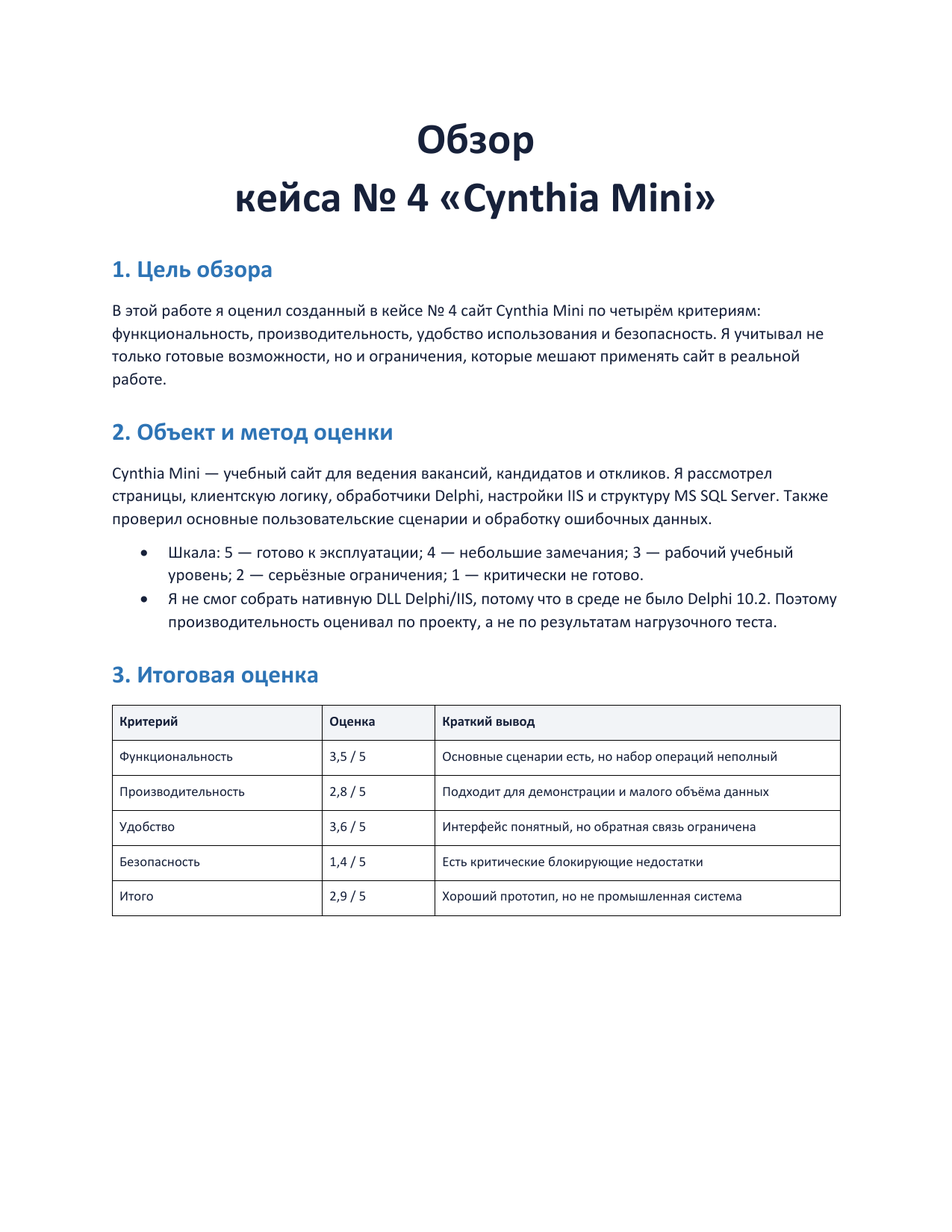
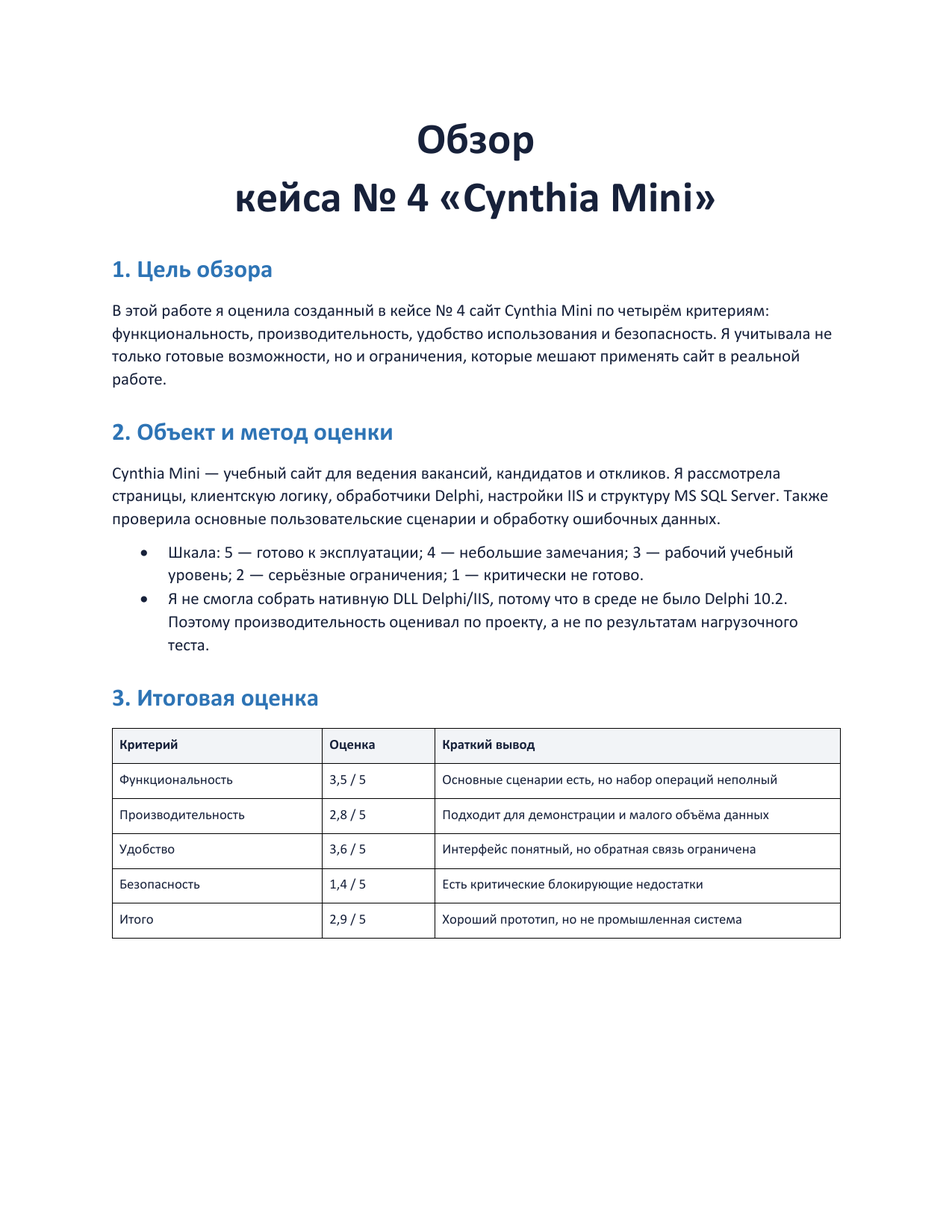
Исправить отчёты на женский род

diff --git a/case-4-cynthia-mini/README.md b/case-4-cynthia-mini/README.md
@@ -1,8 +1,8 @@
 # Cynthia Mini
 
-В этой работе я сделал небольшую учебную версию ATS-системы Cynthia. Интерфейс открывается в браузере, серверная часть работает на Delphi 10.2 WebBroker через IIS, а данные хранятся в Microsoft SQL Server.
+В этой работе я сделала небольшую учебную версию ATS-системы Cynthia. Интерфейс открывается в браузере, серверная часть работает на Delphi 10.2 WebBroker через IIS, а данные хранятся в Microsoft SQL Server.
 
-## Что я реализовал
+## Что я реализовала
 
 - адаптивная главная страница сайта с показателями;
 - список и создание вакансий;
@@ -13,11 +13,11 @@
 - JSON API и параметризованные SQL-запросы FireDAC;
 - воспроизводимая схема MS SQL Server с ограничениями, связями, индексами и тестовыми данными.
 
-Я сознательно не добавлял аутентификацию, загрузку резюме, отправку сообщений, AI-рейтинг и интеграции исходной Cynthia. Интерфейс работает после публикации DLL в IIS — это не отдельный статический макет.
+Я сознательно не добавляла аутентификацию, загрузку резюме, отправку сообщений, AI-рейтинг и интеграции исходной Cynthia. Интерфейс работает после публикации DLL в IIS — это не отдельный статический макет.
 
 ## Демонстрация работы
 
-Для скриншотов я запустил интерфейс с тестовыми ответами API и оставил масштаб браузера 100%. На изображениях показаны основные сценарии работы.
+Для скриншотов я запустила интерфейс с тестовыми ответами API и оставила масштаб браузера 100%. На изображениях показаны основные сценарии работы.
 
 ### Главная страница
 
@@ -64,21 +64,21 @@ CynthiaMini/
 - Microsoft ODBC Driver for SQL Server или SQL Server Native Client, доступный FireDAC;
 - включённая роль IIS `ISAPI Extensions`.
 
-Я использовал одинаковую разрядность DLL, пула IIS и драйвера SQL Server. Если разрядность различается, приложение не загрузится.
+Я использовала одинаковую разрядность DLL, пула IIS и драйвера SQL Server. Если разрядность различается, приложение не загрузится.
 
 ## 1. Как воспроизвести базу данных
 
-Я создавал базу через SQL Server Management Studio. Повторить это можно так:
+Я создавала базу через SQL Server Management Studio. Повторить это можно так:
 
 1. Подключиться к SQL Server через SSMS под учётной записью с правом `CREATE DATABASE`.
 2. Открыть `database/CynthiaMini.sql` и выполнить весь скрипт.
-3. Выполнить `database/smoke-test.sql`. Для проверки я подготовил 8 вакансий, 15 кандидатов и 18 откликов на разных этапах.
+3. Выполнить `database/smoke-test.sql`. Для проверки я подготовила 8 вакансий, 15 кандидатов и 18 откликов на разных этапах.
 
-Я сделал скрипт повторяемым: он не удаляет существующую базу и не добавляет тестовые записи второй раз, если в `Companies` уже есть данные.
+Я сделала скрипт повторяемым: он не удаляет существующую базу и не добавляет тестовые записи второй раз, если в `Companies` уже есть данные.
 
 ## 2. Как воспроизвести сборку Delphi
 
-Проект я собирал в Delphi 10.2. Последовательность действий:
+Проект я собирала в Delphi 10.2. Последовательность действий:
 
 1. Открыть `CynthiaMini.dpr` в Delphi 10.2.
 2. Выбрать `Release` и платформу, которая совпадает с разрядностью пула IIS (у меня Win64).
@@ -100,7 +100,7 @@ CynthiaMini/
 7. В `ISAPI and CGI Restrictions` разрешить полный путь к `CynthiaMini.dll`.
 8. Сверить `scriptProcessor` в `web.config` с фактическим путём к DLL.
 9. Дать учётной записи пула право читать папку и подключаться к базе при использовании Windows Authentication.
-10. Открыть корень сайта. Я дополнительно проверял ответ `/api/dashboard` — это помогает понять, работает ли серверная часть.
+10. Открыть корень сайта. Я дополнительно проверяла ответ `/api/dashboard` — это помогает понять, работает ли серверная часть.
 
 Пример SQL-аутентификации:
 
@@ -113,7 +113,7 @@ UserName=cynthia_app
 Password=replace_me
 ```
 
-`config.ini` я не добавлял в Git, потому что в нём могут находиться логин и пароль от базы. Файл уже указан в `.gitignore`.
+`config.ini` я не добавляла в Git, потому что в нём могут находиться логин и пароль от базы. Файл уже указан в `.gitignore`.
 
 ## JSON API
 
@@ -135,4 +135,4 @@ Invoke-RestMethod http://localhost/CynthiaMini/api/candidates -Method Post `
 
 ## Мои выводы и дальнейшие доработки
 
-В текущем виде я считаю проект учебным прототипом. Для реальной эксплуатации я бы добавил JWT- или Windows-аутентификацию, роли, CSRF/CORS-политику, полный журнал аудита, транзакции, внешнее хранение файлов, пагинацию, тесты API, защищённое хранение секретов и HTTPS.
+В текущем виде я считаю проект учебным прототипом. Для реальной эксплуатации я бы добавила JWT- или Windows-аутентификацию, роли, CSRF/CORS-политику, полный журнал аудита, транзакции, внешнее хранение файлов, пагинацию, тесты API, защищённое хранение секретов и HTTPS.

diff --git a/README.md b/README.md
@@ -1,10 +1,10 @@
 # Кейс-задачи № 1–5
 
-В этом репозитории я собрал пять учебных работ: две программы на Python, базу данных, сайт на Delphi и обзор готового решения.
+В этом репозитории я собрала пять учебных работ: две программы на Python, базу данных, сайт на Delphi и обзор готового решения.
 
 ## Кейс-задача № 1 — массив
 
-В [`case-1-array`](case-1-array) я сделал программу на Python, которая считает сумму отрицательных элементов между минимумом и максимумом массива.
+В [`case-1-array`](case-1-array) я сделала программу на Python, которая считает сумму отрицательных элементов между минимумом и максимумом массива.
 
 - исходный код программы;
 - техническое задание и описание алгоритма;
@@ -15,7 +15,7 @@
 
 ## Кейс-задача № 2 — наследование классов
 
-В [`case-2-inheritance`](case-2-inheritance) я показал работу базового класса `Employee` и дочернего класса `Chief`.
+В [`case-2-inheritance`](case-2-inheritance) я показала работу базового класса `Employee` и дочернего класса `Chief`.
 
 - наследование методов;
 - переопределение метода и вызов `super()`;
@@ -26,7 +26,7 @@
 
 ## Кейс-задача № 3 — «Туризм»
 
-В [`case-3-tourism`](case-3-tourism) я спроектировал базу MySQL для агентства путешествий к редким природным явлениям.
+В [`case-3-tourism`](case-3-tourism) я спроектировала базу MySQL для агентства путешествий к редким природным явлениям.
 
 - четыре таблицы-справочника и одна таблица заказов;
 - первичные и внешние ключи;
@@ -38,7 +38,7 @@
 
 ## Кейс-задача № 4 — Cynthia Mini
 
-В [`case-4-cynthia-mini`](case-4-cynthia-mini) я сделал учебный сайт для работы с вакансиями, кандидатами и откликами.
+В [`case-4-cynthia-mini`](case-4-cynthia-mini) я сделала учебный сайт для работы с вакансиями, кандидатами и откликами.
 
 - серверная часть на Delphi 10.2 WebBroker;
 - публикация через Microsoft IIS и ISAPI;
@@ -52,14 +52,14 @@
 
 ## Кейс-задача № 5 — обзор
 
-В [`case-5-analytical-review`](case-5-analytical-review) я оценил Cynthia Mini по четырём критериям:
+В [`case-5-analytical-review`](case-5-analytical-review) я оценила Cynthia Mini по четырём критериям:
 
 - функциональность;
 - производительность;
 - удобство использования;
 - безопасность.
 
-В отчёте я записал оценки, найденные ограничения и порядок дальнейших доработок. Мой итог: проект подходит как учебный прототип, но для реальной работы ему нужны авторизация, роли, HTTPS, безопасная обработка ошибок и полноценная серверная проверка данных.
+В отчёте я записала оценки, найденные ограничения и порядок дальнейших доработок. Мой итог: проект подходит как учебный прототип, но для реальной работы ему нужны авторизация, роли, HTTPS, безопасная обработка ошибок и полноценная серверная проверка данных.
 
 Описание и скриншот: [`case-5-analytical-review/README.md`](case-5-analytical-review/README.md).
 

diff --git a/case-2-inheritance/README.md b/case-2-inheritance/README.md
@@ -8,26 +8,26 @@
 
 ## Решение
 
-Я сделал два класса:
+Я сделала два класса:
 
 - `Employee` — базовый класс сотрудника с методами `arrive_at_work()` и `report()`;
 - `Chief` — производный класс руководителя, который наследует метод `arrive_at_work()`, переопределяет `report()` и добавляет собственный метод `delegate_task()`.
 
-В `Chief.report()` я использовал `super().report()`: сначала выполняется метод базового класса, затем руководитель сообщает о работе всего отдела. В тестовой части я создаю по одному объекту каждого класса и показываю обычный, унаследованный, переопределённый и собственный методы.
+В `Chief.report()` я использовала `super().report()`: сначала выполняется метод базового класса, затем руководитель сообщает о работе всего отдела. В тестовой части я создаю по одному объекту каждого класса и показываю обычный, унаследованный, переопределённый и собственный методы.
 
 ## Выводы
 
 - Я убедился, что `Chief` получает открытые поля и методы `Employee`: вызов `chief.arrive_at_work()` работает, хотя в самом `Chief` такого метода нет.
 - Собственного конструктора у `Chief` нет, поэтому для него используется `Employee.__init__()`. Благодаря этому поле `name` есть у обоих объектов.
 - В обратную сторону наследование не работает. Обычный `Employee` не получает `delegate_task()` из дочернего класса, поэтому `employee.delegate_task()` вызвал бы `AttributeError`.
-- Я переопределил `report()` в `Chief`, и один вызов ведёт себя по-разному для сотрудника и руководителя. Так в программе проявляется полиморфизм.
+- Я переопределила `report()` в `Chief`, и один вызов ведёт себя по-разному для сотрудника и руководителя. Так в программе проявляется полиморфизм.
 - Через `super().report()` я повторно использую готовое поведение родительского класса, а не копирую его код.
 - Метод `delegate_task()` показывает, что дочерний класс может не только менять унаследованные методы, но и добавлять свои возможности.
-- В итоге общую логику сотрудников я оставил в `Employee`, а особенности руководителя вынес в `Chief`. Это уменьшает повторение кода и упрощает дальнейшее расширение программы.
+- В итоге общую логику сотрудников я оставила в `Employee`, а особенности руководителя вынесла в `Chief`. Это уменьшает повторение кода и упрощает дальнейшее расширение программы.
 
 ## Как воспроизвести результат
 
-Я запускал программу на Python 3. Чтобы увидеть тот же результат, из корня репозитория можно выполнить:
+Я запускала программу на Python 3. Чтобы увидеть тот же результат, из корня репозитория можно выполнить:
 
 ```bash
 python case-2-inheritance/main.py

diff --git a/case-1-array/README.md b/case-1-array/README.md
@@ -8,7 +8,7 @@
 
 ## Решение
 
-Для решения задачи я написал программу, которая:
+Для решения задачи я написала программу, которая:
 
 1. считывает количество элементов `N`;
 2. последовательно считывает элементы массива;
@@ -24,19 +24,19 @@
 - Порядок минимума и максимума не важен: я сравниваю их индексы и получаю левую и правую границы участка.
 - Сам минимум и максимум в сумму не входят — они только задают границы.
 - Положительные числа и нули я пропускаю. Если между границами нет отрицательных чисел, программа выводит `0`.
-- Для поиска значений и их позиций я использовал `min()`, `max()` и `index()`. При повторении минимума или максимума `index()` берёт первое вхождение, и это влияет на выбранный участок.
+- Для поиска значений и их позиций я использовала `min()`, `max()` и `index()`. При повторении минимума или максимума `index()` берёт первое вхождение, и это влияет на выбранный участок.
 - Вложенных циклов здесь нет, поэтому время работы растёт линейно — `O(N)`. Для хранения массива требуется `O(N)` памяти.
 - Я отдельно проверяю `N > 0`, потому что `min()` и `max()` нельзя вызвать для пустого массива.
 
 ## Как воспроизвести результат
 
-Я запускал программу на Python 3. Чтобы воспроизвести результат, из корня репозитория можно выполнить:
+Я запускала программу на Python 3. Чтобы воспроизвести результат, из корня репозитория можно выполнить:
 
 ```bash
 python case-1-array/main.py
 ```
 
-Для проверки я ввёл `N = 8` и массив `[4, -3, 12, -5, -7, 2, -1, -10]`. Между максимальным элементом `12` и минимальным элементом `-10` находятся числа `-5`, `-7` и `-1`, поэтому программа вывела `-13`.
+Для проверки я ввела `N = 8` и массив `[4, -3, 12, -5, -7, 2, -1, -10]`. Между максимальным элементом `12` и минимальным элементом `-10` находятся числа `-5`, `-7` и `-1`, поэтому программа вывела `-13`.
 
 ## Демонстрация работы
 

diff --git a/case-4-cynthia-mini/docs/site-analysis.md b/case-4-cynthia-mini/docs/site-analysis.md
@@ -1,6 +1,6 @@
 # Анализ сайта Cynthia
 
-Я рассматривал Cynthia как WEB-сайт для организации подбора персонала. Анализировал только то, что видит обычный пользователь, без разбора внутренней реализации исходной системы.
+Я рассматривала Cynthia как WEB-сайт для организации подбора персонала. Анализировала только то, что видит обычный пользователь, без разбора внутренней реализации исходной системы.
 
 ## Основные разделы
 
@@ -16,9 +16,9 @@
 
 Рекрутер может создавать вакансии, добавлять кандидатов, связывать кандидата с вакансией и изменять этап подбора. Руководитель может просматривать общие показатели и контролировать состояние вакансий. Администратор управляет пользователями и настройками сайта.
 
-## Что я выбрал для Cynthia Mini
+## Что я выбрала для Cynthia Mini
 
-Для учебного сайта я оставил только основную цепочку работы:
+Для учебного сайта я оставила только основную цепочку работы:
 
 - главная страница с показателями;
 - вакансии;
@@ -27,4 +27,4 @@
 - воронка подбора;
 - история изменения этапов.
 
-Cynthia Mini я сделал как самостоятельный учебный проект, а не как копию дизайна исходного сайта.
+Cynthia Mini я сделала как самостоятельный учебный проект, а не как копию дизайна исходного сайта.

diff --git a/case-5-analytical-review/README.md b/case-5-analytical-review/README.md
@@ -2,14 +2,14 @@
 
 ## Описание
 
-В этой работе я рассмотрел сайт Cynthia Mini из кейс-задачи № 4 и оценил его по четырём критериям:
+В этой работе я рассмотрела сайт Cynthia Mini из кейс-задачи № 4 и оценила его по четырём критериям:
 
 - функциональность;
 - производительность;
 - удобство использования;
 - безопасность.
 
-В отчёте я отметил сильные стороны и ограничения, поставил итоговые оценки и составил план доработки. Получилась общая оценка `2,9 из 5`. Я считаю, что сайт подходит для учебной демонстрации, но перед работой с реальными персональными данными в него нужно добавить аутентификацию, роли, HTTPS, безопасную обработку ошибок и строгую серверную проверку данных.
+В отчёте я отметила сильные стороны и ограничения, поставила итоговые оценки и составила план доработки. Получилась общая оценка `2,9 из 5`. Я считаю, что сайт подходит для учебной демонстрации, но перед работой с реальными персональными данными в него нужно добавить аутентификацию, роли, HTTPS, безопасную обработку ошибок и строгую серверную проверку данных.
 
 Отчёт: [`Кейс-задача№5_Обзор_Cynthia_Mini.docx`](Кейс-задача№5_Обзор_Cynthia_Mini.docx).
 

diff --git a/case-3-tourism/README.md b/case-3-tourism/README.md
@@ -1,6 +1,6 @@
 # Tourism Rare Events
 
-В этой работе я сделал учебную базу данных «Туризм» для агентства, которое организует поездки к редким природным явлениям.
+В этой работе я сделала учебную базу данных «Туризм» для агентства, которое организует поездки к редким природным явлениям.
 
 ## Состав
 
@@ -9,7 +9,7 @@
 
 ## Как воспроизвести результат в MySQL Workbench
 
-Я проверял скрипт в MySQL 8.0.16. Чтобы воспроизвести результат, можно сделать так:
+Я проверяла скрипт в MySQL 8.0.16. Чтобы воспроизвести результат, можно сделать так:
 
 1. Открыть MySQL Workbench и подключиться к MySQL 8.0.16 или новее.
 2. Выбрать **File → Open SQL Script**.
@@ -25,5 +25,5 @@
 - `travelers`;
 - `tour_orders`.
 
-В конце я добавил контрольные `SELECT`-запросы, по которым можно проверить загруженные данные и рассчитанные суммы.
+В конце я добавила контрольные `SELECT`-запросы, по которым можно проверить загруженные данные и рассчитанные суммы.
 

diff --git a/case-3-tourism/schema.md b/case-3-tourism/schema.md
@@ -38,5 +38,5 @@ erDiagram
     }
 ```
 
-Все внешние ключи я разместил в `tour_orders`. Благодаря этому один клиент, пункт назначения, формат тура или пакет услуг может быть связан с несколькими заказами.
+Все внешние ключи я разместила в `tour_orders`. Благодаря этому один клиент, пункт назначения, формат тура или пакет услуг может быть связан с несколькими заказами.
 
